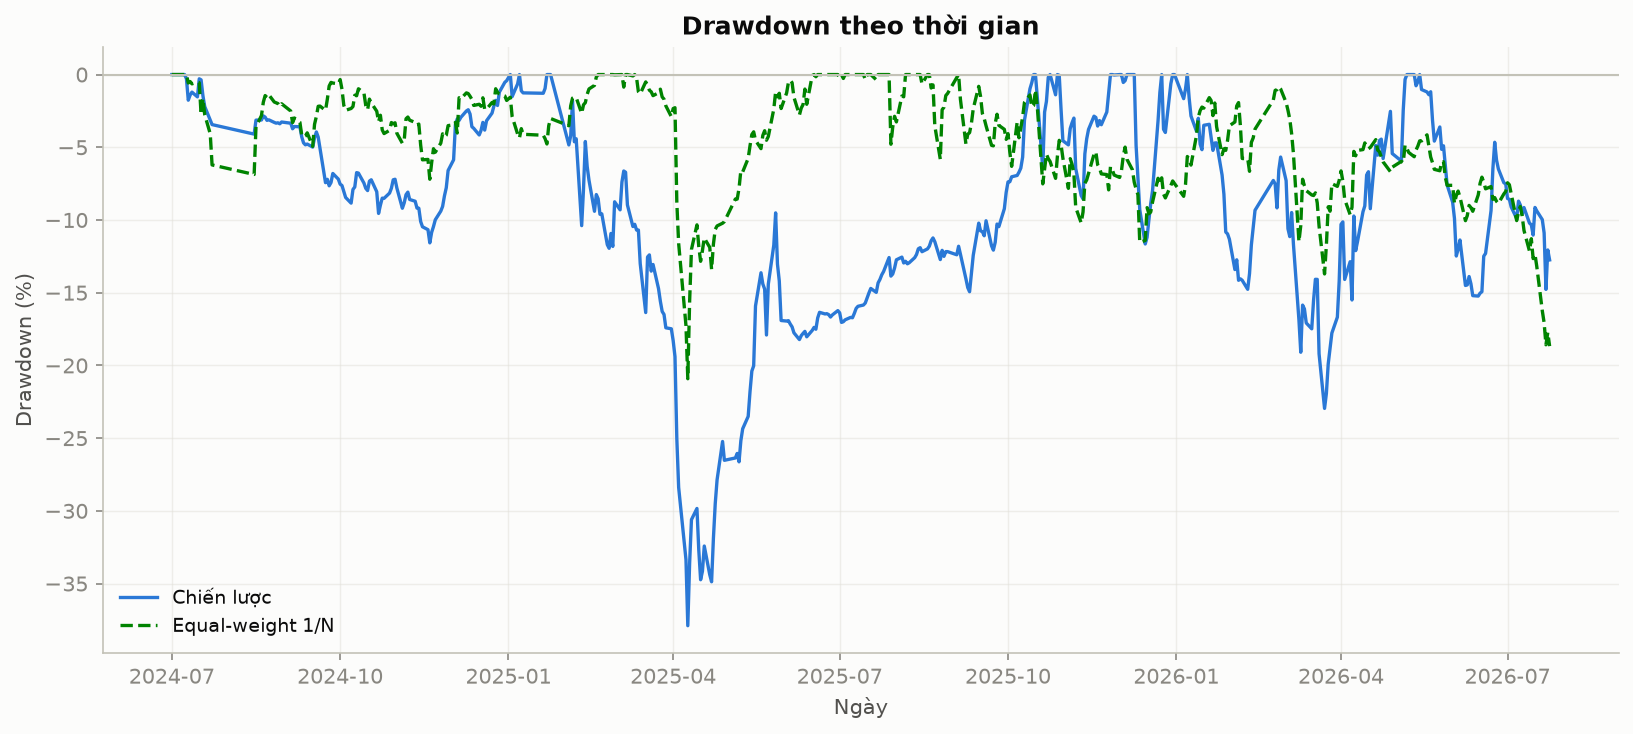
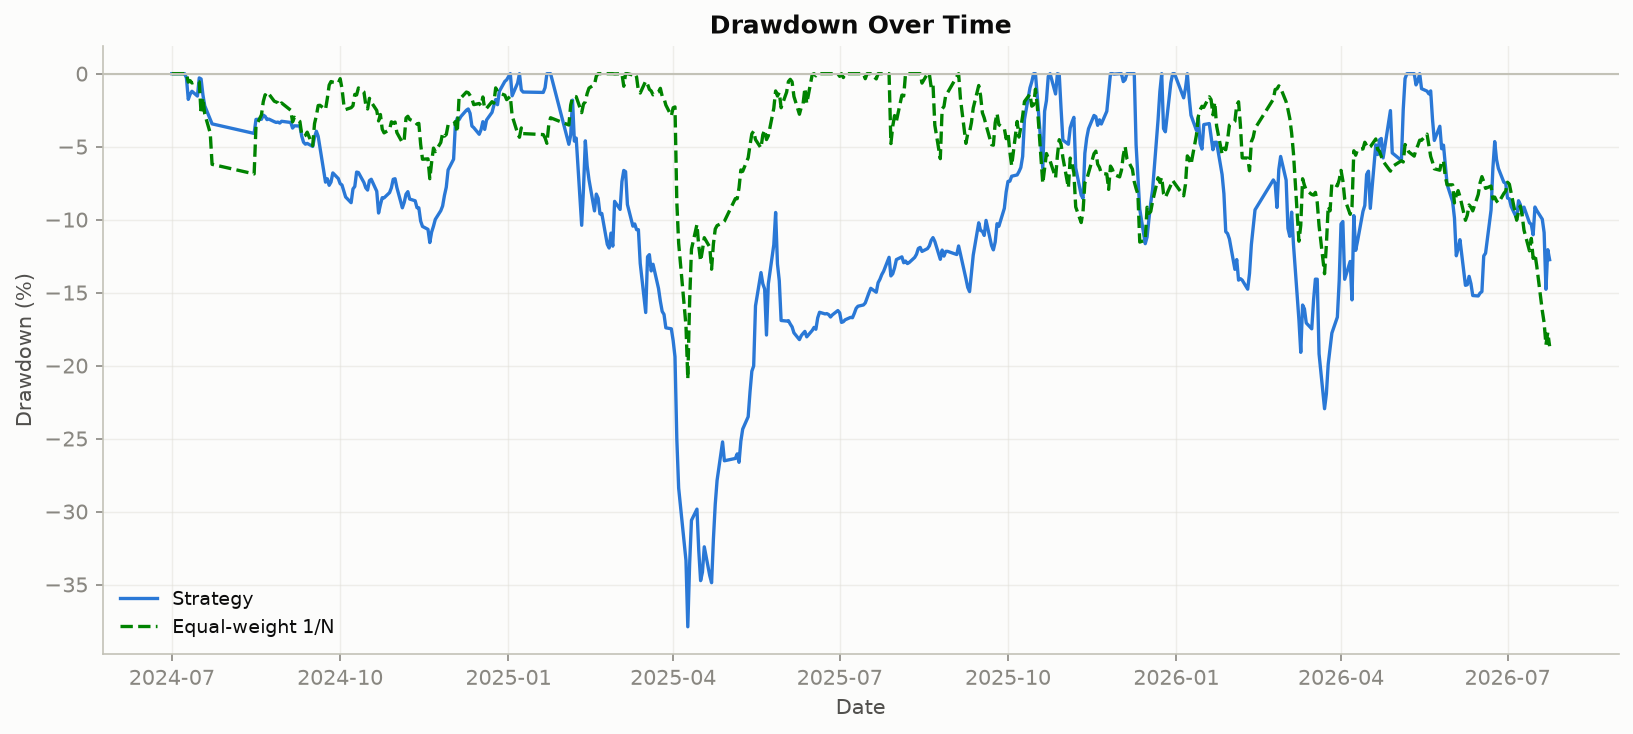
fix(viz): translate all chart titles/labels/legends to English
Every matplotlib title, axis label, legend label/title, colorbar label, and
annotation across the 9 figures (fig1..fig9) was in Vietnamese, even though
the report and slide deck built around them are English -- so the embedded
charts were the one place Vietnamese still leaked through. Translated all
of it in src/viz.py, keeping the technical vocabulary consistent with the
wording already used in report/ (e.g. 'Sparsity Path', 'Active assets',
'Robust-Term Effect', 'Turnover per Rebalance').

Also fixed a latent bug found in the process: fig6's legend hardcoded the
asset count as a literal '97 mã' string instead of reading it from the
data; it now reads f'Assets (N={len(w_hand)})', which correctly shows 98 --
matching every other N=98 reference in the report.

Code comments and docstrings are left in Vietnamese (internal project
documentation, out of scope of this request, which was specifically about
what appears on the rendered charts).

Regenerated all 9 PNGs from the real cached data and a real walk-forward
backtest run (fig1-6 via generate_all(), fig7-9 via a fresh
walk_forward_backtest()/equal_weight_backtest() call, same as the notebook
does) and copied them into figures/, report/figures/, and slides/figures/.
Full test suite still 40/40 passing (no test depends on chart text). Report
recompiled at an unchanged 10-page body; slides recompiled clean.

diff --git a/src/viz.py b/src/viz.py
@@ -202,12 +202,12 @@ def fig1_data_overview(returns: pd.DataFrame | None = None, *, save: bool = True
     ax.set_xticklabels(corr.columns[ticks], rotation=90, fontsize=7)
     ax.set_yticklabels(corr.columns[ticks], fontsize=7)
 
-    ax.set_xlabel(f"Mã cổ phiếu (N={n})")
-    ax.set_ylabel(f"Mã cổ phiếu (N={n})")
-    ax.set_title("VN100 Universe — Ma trận tương quan return ngày (Pearson)")
+    ax.set_xlabel(f"Ticker (N={n})")
+    ax.set_ylabel(f"Ticker (N={n})")
+    ax.set_title("VN100 Universe — Daily Return Correlation Matrix (Pearson)")
 
     cbar = fig.colorbar(im, ax=ax, fraction=0.046, pad=0.04)
-    cbar.set_label("Hệ số tương quan (đơn vị: không thứ nguyên, [-1, 1])")
+    cbar.set_label("Correlation coefficient (dimensionless, [-1, 1])")
 
     fig.tight_layout()
     if save:
@@ -279,14 +279,14 @@ def fig2_convergence(
 
     if all_positive:
         ax.set_yscale("log")
-        ax.set_ylabel("Objective f(w_k)  (thang log)")
+        ax.set_ylabel("Objective f(w_k)  (log scale)")
     else:
         ax.set_ylabel("Objective f(w_k)")
 
     ax.set_xlabel("Iteration k")
-    ax.set_title("Hội tụ solver proximal-subgradient — f(w_k) theo iteration")
+    ax.set_title("Proximal-Subgradient Solver Convergence — f(w_k) vs. Iteration")
     ax.grid(True, alpha=0.6)
-    ax.legend(title="Bộ tham số", loc="best")
+    ax.legend(title="Parameter set", loc="best")
 
     fig.tight_layout()
     if save:
@@ -343,9 +343,9 @@ def fig3_sparsity_path(
     fig, ax = plt.subplots(figsize=(7, 5))
     ax.plot(lambdas, n_active, color=CAT_COLORS[0], marker="o", markersize=5, linewidth=1.8)
     ax.set_xscale("log")
-    ax.set_xlabel("λ (hệ số phạt L1, thang log)")
-    ax.set_ylabel(f"Số tài sản active (|w_i| > {active_thresh:g})")
-    ax.set_title(f"Sparsity path — κ={kappa:g}, γ={gamma:g} cố định")
+    ax.set_xlabel("λ (L1 penalty coefficient, log scale)")
+    ax.set_ylabel(f"Active assets (|w_i| > {active_thresh:g})")
+    ax.set_title(f"Sparsity Path — κ={kappa:g}, γ={gamma:g} fixed")
     ax.grid(True, alpha=0.6)
 
     fig.tight_layout()
@@ -397,8 +397,8 @@ def fig4_weights_bar(
     _apply_style()
     if param_sets is None:
         param_sets = [
-            {"kappa": 1.0, "gamma": 5.0, "lam": 0.001, "label": "λ nhỏ (0.001) — dense hơn"},
-            {"kappa": 1.0, "gamma": 5.0, "lam": 0.02, "label": "λ lớn (0.02) — thưa hơn"},
+            {"kappa": 1.0, "gamma": 5.0, "lam": 0.001, "label": "small λ (0.001) — denser"},
+            {"kappa": 1.0, "gamma": 5.0, "lam": 0.02, "label": "large λ (0.02) — sparser"},
         ]
     param_sets = param_sets[:3]  # cap 3 panel cho dễ đọc
 
@@ -430,15 +430,15 @@ def fig4_weights_bar(
         vals = w[order]
         ax.bar(x, vals, color=color, width=0.7)
         ax.axhline(0.0, color=BASELINE, linewidth=1.0, linestyle="--")
-        ax.set_ylabel("Trọng số wᵢ")
+        ax.set_ylabel("Weight wᵢ")
         ax.set_title(label, fontsize=10, loc="left", fontweight="normal", color=INK_SECONDARY)
         ax.grid(True, axis="y", alpha=0.5)
 
     axes[-1].set_xticks(x)
     axes[-1].set_xticklabels(active_symbols, rotation=90, fontsize=7)
-    axes[-1].set_xlabel(f"Mã cổ phiếu (active tại ít nhất 1 bộ tham số, N={len(order)})")
+    axes[-1].set_xlabel(f"Ticker (active in at least 1 parameter set, N={len(order)})")
 
-    fig.suptitle("Trọng số danh mục w* tại các bộ tham số tiêu biểu", fontsize=12, fontweight="bold", y=1.0)
+    fig.suptitle("Portfolio Weights w* at Representative Parameter Sets", fontsize=12, fontweight="bold", y=1.0)
     fig.tight_layout()
     if save:
         _save(fig, "fig4_weights_bar")
@@ -526,9 +526,9 @@ def fig5_robust_effect(
     ax_bar.axhline(0.0, color=BASELINE, linewidth=1.0, linestyle="--")
     ax_bar.set_xticks(x)
     ax_bar.set_xticklabels(active_symbols, rotation=90, fontsize=7)
-    ax_bar.set_xlabel(f"Mã cổ phiếu (active tại ít nhất 1 κ, N={len(order)})")
-    ax_bar.set_ylabel("Trọng số wᵢ")
-    ax_bar.set_title("Trọng số theo mã", fontsize=10, loc="left", color=INK_SECONDARY)
+    ax_bar.set_xlabel(f"Ticker (active for at least 1 κ, N={len(order)})")
+    ax_bar.set_ylabel("Weight wᵢ")
+    ax_bar.set_title("Weights by Ticker", fontsize=10, loc="left", color=INK_SECONDARY)
     ax_bar.legend(title=f"γ={gamma:g}, λ={lam:g}", loc="best")
     ax_bar.grid(True, axis="y", alpha=0.5)
 
@@ -542,14 +542,14 @@ def fig5_robust_effect(
             ax_metrics.annotate(f"{v:.1f}", (b.get_x() + b.get_width() / 2, b.get_height()),
                                  ha="center", va="bottom", fontsize=8, color=INK_PRIMARY)
     ax_metrics.set_xticks(metric_x)
-    ax_metrics.set_xticklabels(["Số mã active", "HHI × 100"])
-    ax_metrics.set_ylabel("Giá trị chỉ số")
-    ax_metrics.set_title("Độ tập trung danh mục", fontsize=10, loc="left", color=INK_SECONDARY)
+    ax_metrics.set_xticklabels(["Active tickers", "HHI × 100"])
+    ax_metrics.set_ylabel("Metric value")
+    ax_metrics.set_title("Portfolio Concentration", fontsize=10, loc="left", color=INK_SECONDARY)
     ax_metrics.legend(loc="best")
     ax_metrics.grid(True, axis="y", alpha=0.5)
 
     fig.suptitle(
-        f"Hiệu ứng robust term: κ=0 vs κ={kappa_values[1]:g} (γ={gamma:g}, λ={lam:g} cố định)",
+        f"Robust-Term Effect: κ=0 vs κ={kappa_values[1]:g} (γ={gamma:g}, λ={lam:g} fixed)",
         fontsize=12, fontweight="bold",
     )
     fig.tight_layout()
@@ -604,16 +604,16 @@ def fig6_prox_vs_cvxpy(
     lo, hi = lo - pad, hi + pad
 
     fig, ax = plt.subplots(figsize=(6, 6))
-    ax.plot([lo, hi], [lo, hi], color=BASELINE, linewidth=1.2, linestyle="--", label="y = x (khớp hoàn hảo)")
+    ax.plot([lo, hi], [lo, hi], color=BASELINE, linewidth=1.2, linestyle="--", label="y = x (perfect match)")
     ax.scatter(w_hand, w_cvx, color=CAT_COLORS[0], s=28, alpha=0.85, edgecolor="white", linewidth=0.4,
-               label="Tài sản (97 mã)")
+               label=f"Assets (N={len(w_hand)})")
 
     ax.set_xlim(lo, hi)
     ax.set_ylim(lo, hi)
     ax.set_aspect("equal", adjustable="box")
-    ax.set_xlabel("w_hand — solver tay (proximal-subgradient)")
+    ax.set_xlabel("w_hand — hand-written solver (proximal-subgradient)")
     ax.set_ylabel("w_cvxpy — CVXPY (CLARABEL, ground truth)")
-    ax.set_title(f"Solver tay vs CVXPY — κ={kappa:g}, γ={gamma:g}, λ={lam:g}")
+    ax.set_title(f"Hand-Written Solver vs. CVXPY — κ={kappa:g}, γ={gamma:g}, λ={lam:g}")
     ax.legend(loc="best")
     ax.grid(True, alpha=0.5)
 
@@ -665,13 +665,13 @@ def fig7_backtest_equity(strategy_result, benchmark_result, *, save: bool = True
     bench_curve = (1 + benchmark_result.daily_returns).cumprod()
 
     ax.plot(strat_curve.index, strat_curve.values, color=CAT_COLORS[0], linewidth=1.8,
-             label="Chiến lược (long-only, walk-forward)")
+             label="Strategy (long-only, walk-forward)")
     ax.plot(bench_curve.index, bench_curve.values, color=CAT_COLORS[1], linewidth=1.6,
              linestyle="--", label="Equal-weight 1/N")
 
-    ax.set_title("Backtest walk-forward — Đường cong tài sản tích luỹ (net phí)")
-    ax.set_xlabel("Ngày")
-    ax.set_ylabel("Giá trị danh mục (chuẩn hoá, bắt đầu = 1.0)")
+    ax.set_title("Walk-Forward Backtest — Cumulative Equity Curve (net of fees)")
+    ax.set_xlabel("Date")
+    ax.set_ylabel("Portfolio value (normalized, start = 1.0)")
     ax.grid(True, alpha=0.5)
     ax.legend(loc="best")
 
@@ -706,7 +706,7 @@ def fig8_drawdown(strategy_result, benchmark_result, *, save: bool = True) -> Fi
     fig, ax = plt.subplots(figsize=(11, 5))
 
     for result, label, color, ls in [
-        (strategy_result, "Chiến lược", CAT_COLORS[0], "-"),
+        (strategy_result, "Strategy", CAT_COLORS[0], "-"),
         (benchmark_result, "Equal-weight 1/N", CAT_COLORS[1], "--"),
     ]:
         curve = (1 + result.daily_returns).cumprod()
@@ -715,8 +715,8 @@ def fig8_drawdown(strategy_result, benchmark_result, *, save: bool = True) -> Fi
                  linestyle=ls, label=label)
 
     ax.axhline(0.0, color=BASELINE, linewidth=1.0)
-    ax.set_title("Drawdown theo thời gian")
-    ax.set_xlabel("Ngày")
+    ax.set_title("Drawdown Over Time")
+    ax.set_xlabel("Date")
     ax.set_ylabel("Drawdown (%)")
     ax.grid(True, alpha=0.5)
     ax.legend(loc="best")
@@ -761,17 +761,17 @@ def fig9_selected_params(strategy_result, *, save: bool = True) -> Figure:
     fig, axes = plt.subplots(2, 1, figsize=(11, 8), sharex=True)
     log = strategy_result.rebalance_log
 
-    axes[0].scatter(log.index, log["kappa"], color=CAT_COLORS[0], s=40, label="κ đã chọn")
-    axes[0].scatter(log.index, log["gamma"], color=CAT_COLORS[1], s=40, marker="x", label="γ đã chọn")
-    axes[0].set_ylabel("Giá trị tham số")
-    axes[0].set_title("Tham số (κ, γ) được chọn qua validation mỗi kỳ")
+    axes[0].scatter(log.index, log["kappa"], color=CAT_COLORS[0], s=40, label="Selected κ")
+    axes[0].scatter(log.index, log["gamma"], color=CAT_COLORS[1], s=40, marker="x", label="Selected γ")
+    axes[0].set_ylabel("Parameter value")
+    axes[0].set_title("Selected (κ, γ) via Validation Sharpe Each Period")
     axes[0].grid(True, alpha=0.5)
     axes[0].legend(loc="best")
 
     axes[1].bar(log.index, log["turnover"] * 100, width=15, color=CAT_COLORS[0])
     axes[1].set_ylabel("Turnover (%)")
-    axes[1].set_xlabel("Ngày rebalance")
-    axes[1].set_title("Turnover mỗi kỳ rebalance")
+    axes[1].set_xlabel("Rebalance date")
+    axes[1].set_title("Turnover per Rebalance")
     axes[1].grid(True, axis="y", alpha=0.5)
 
     fig.tight_layout()
